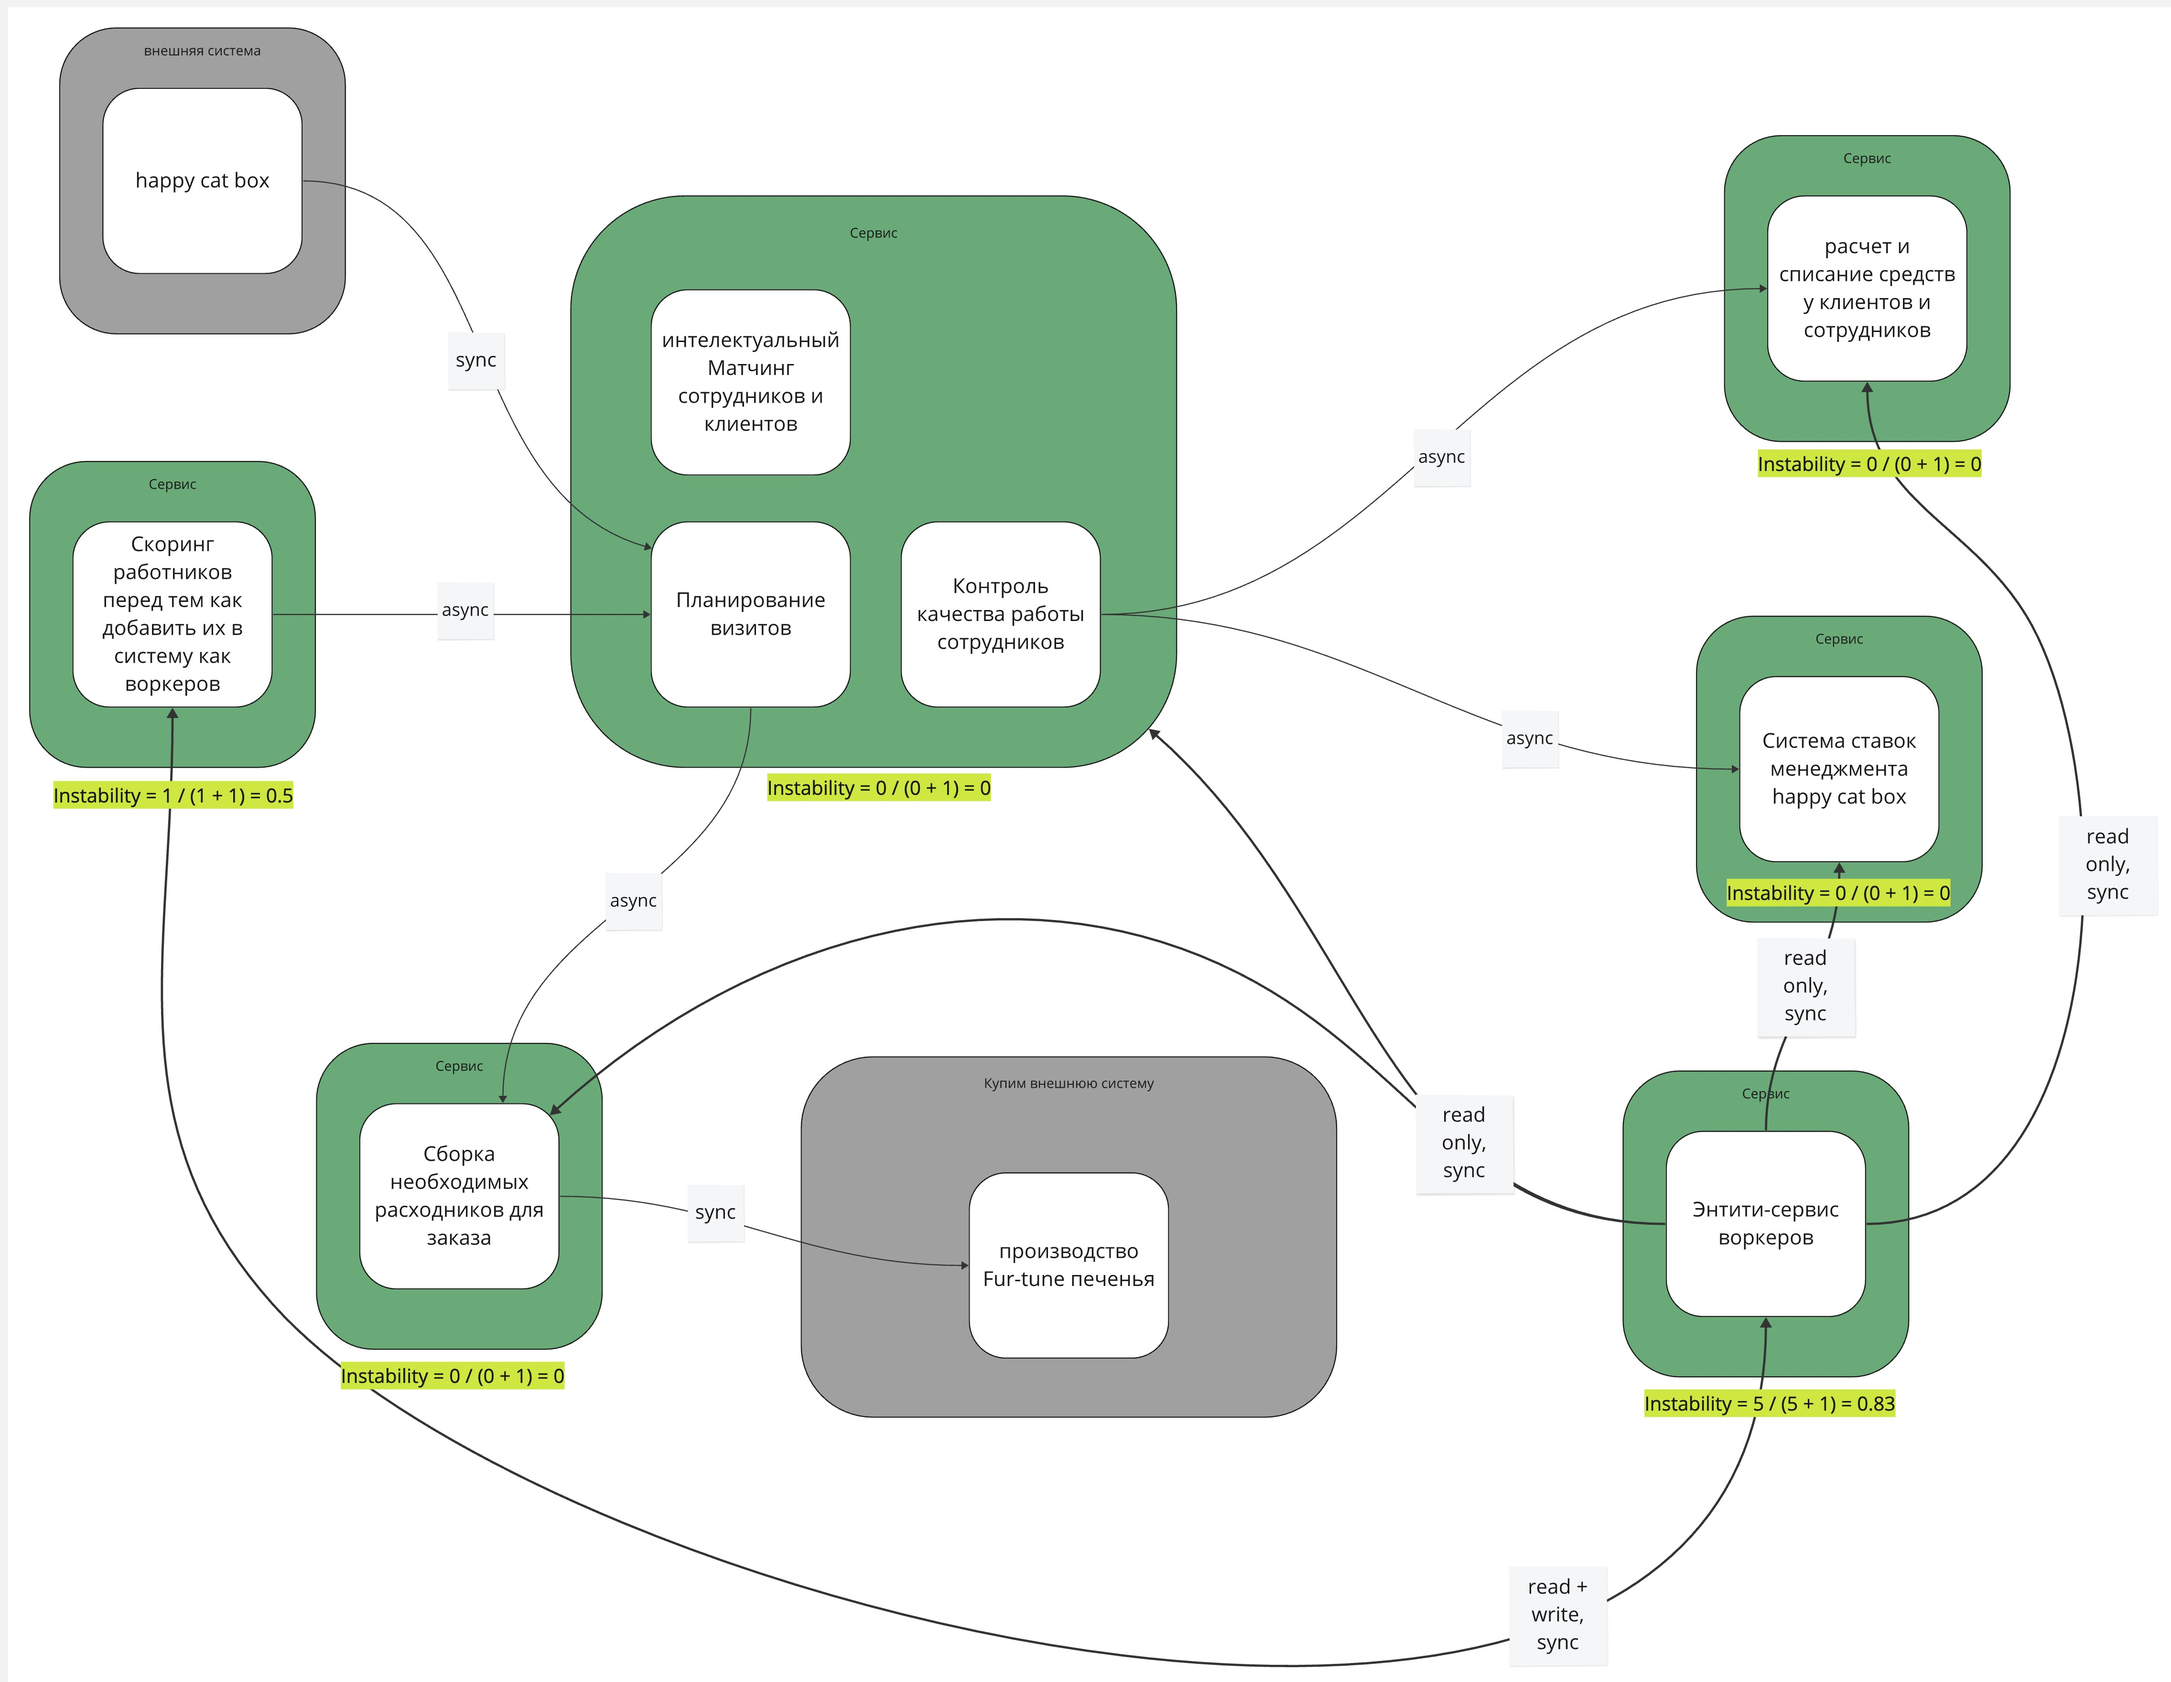
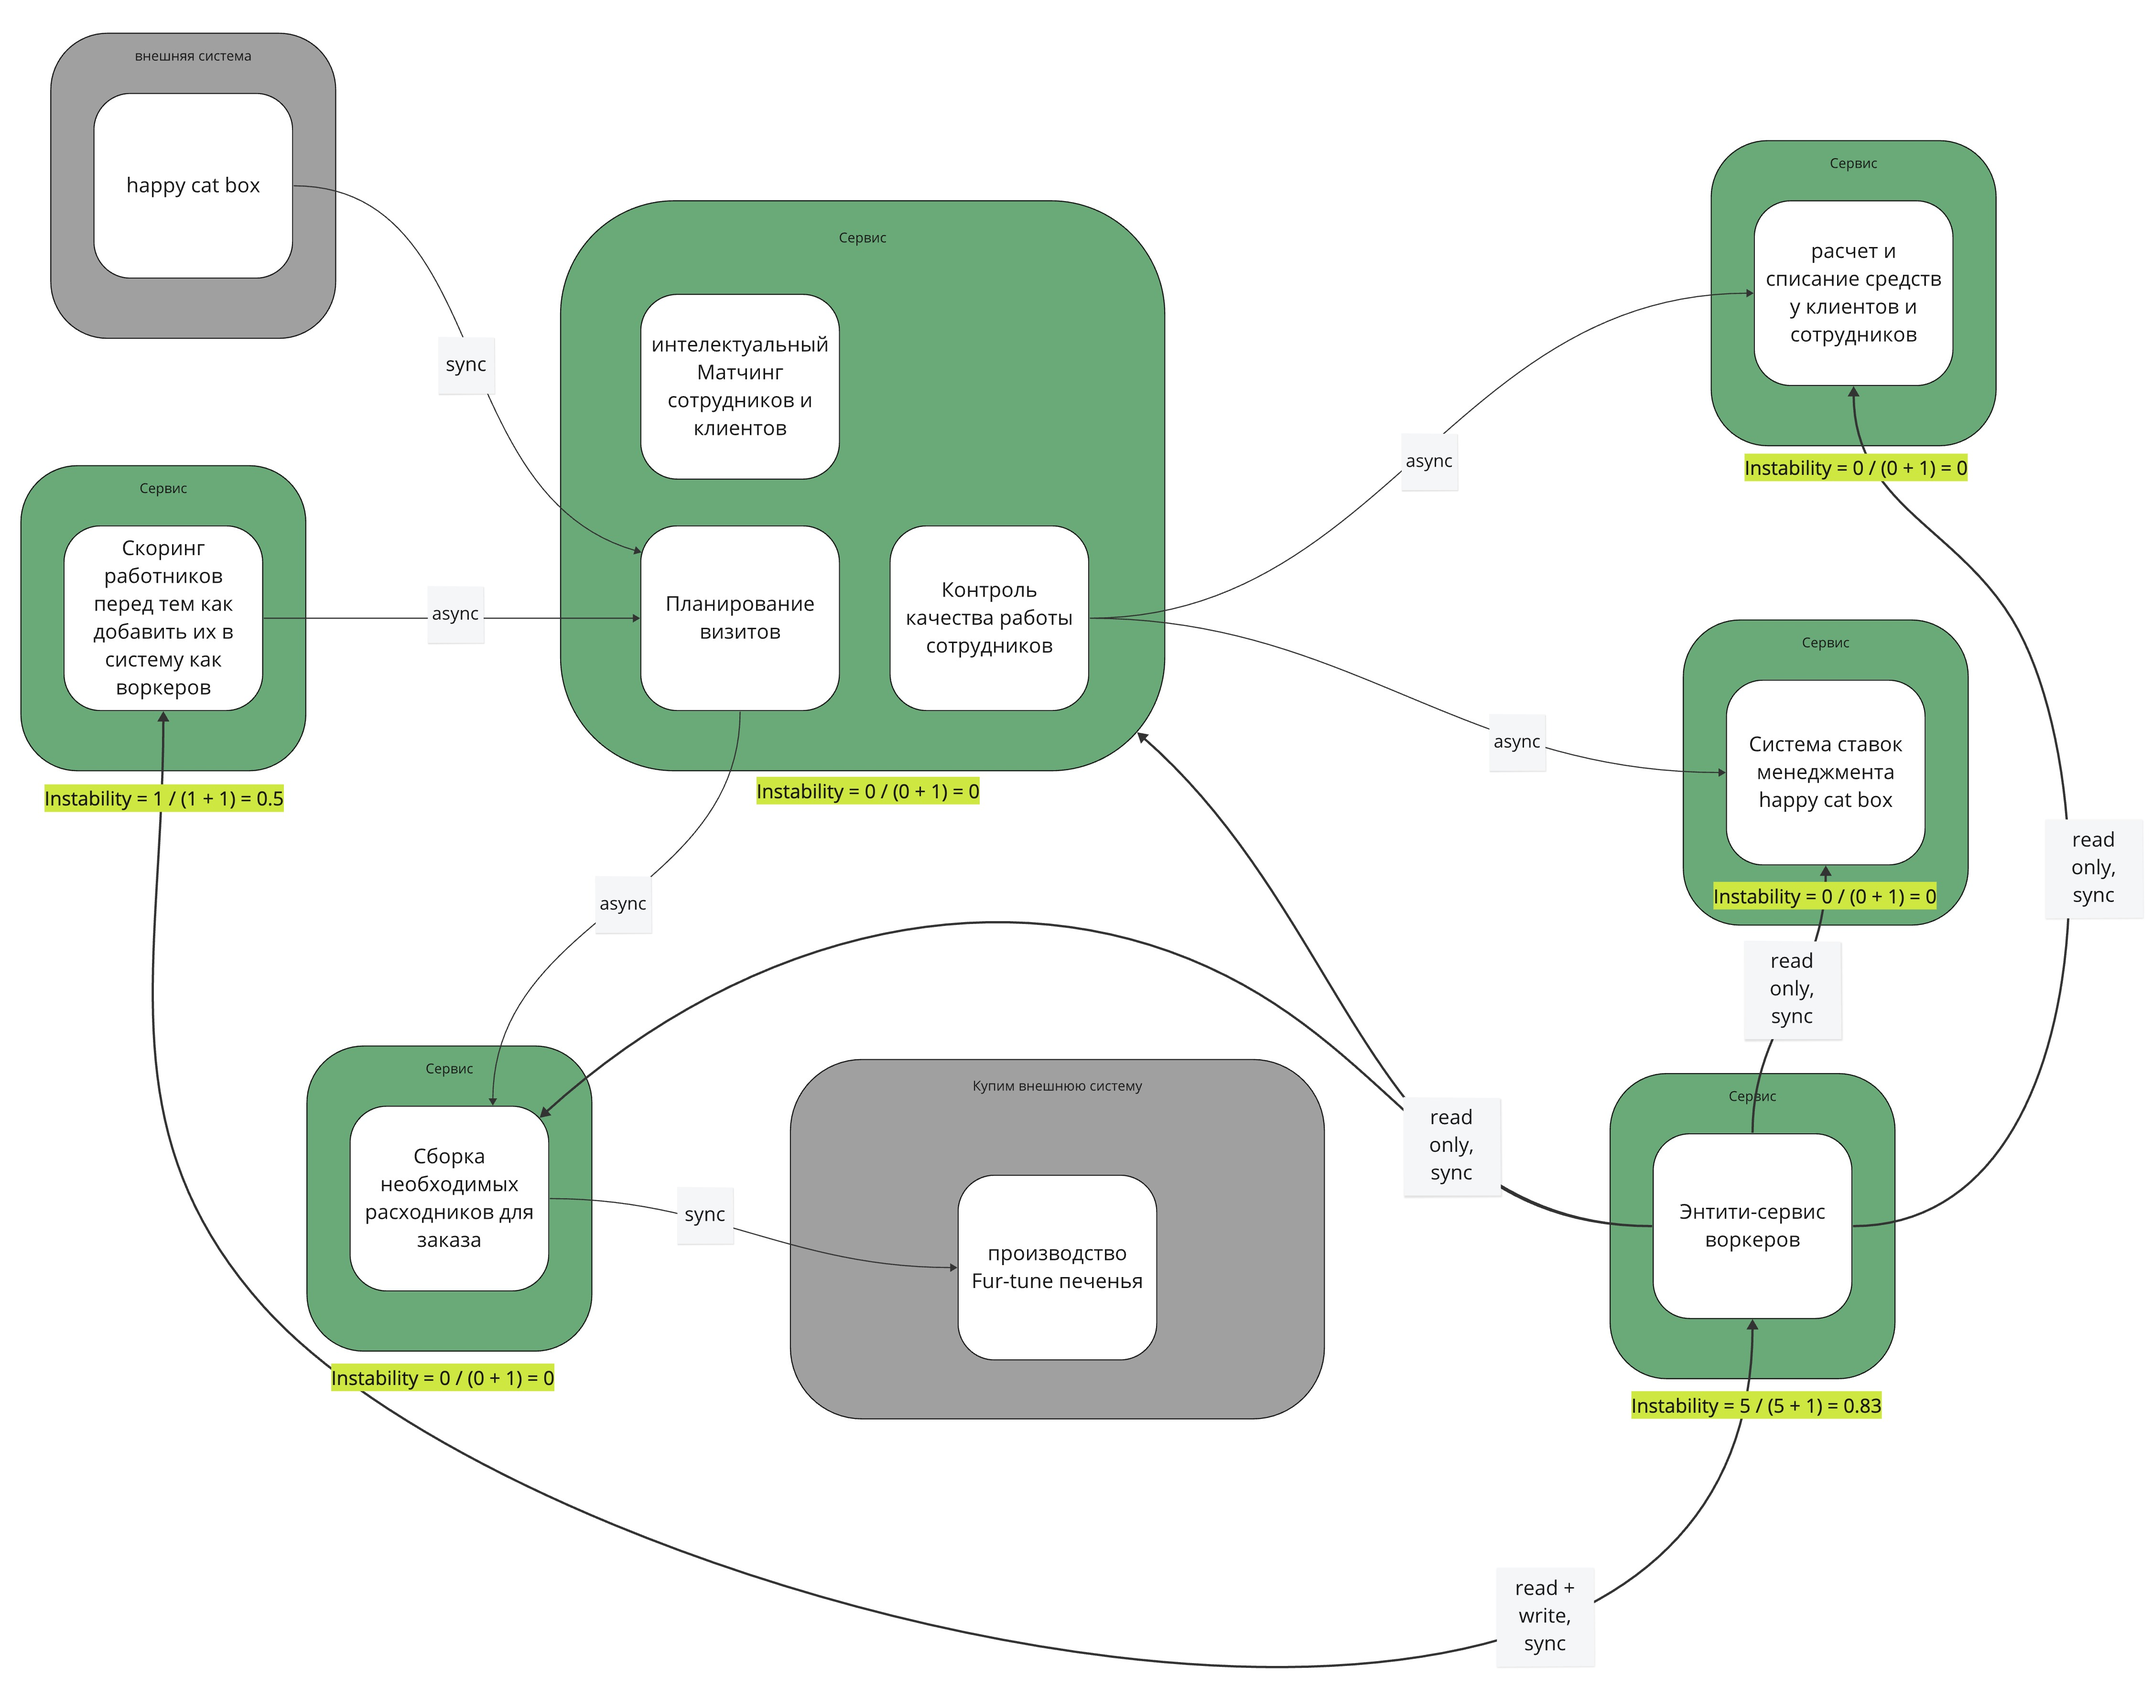
HW-4: Final touches

diff --git a/homework-4/README.md b/homework-4/README.md
@@ -11,39 +11,38 @@
 **Цель задания** — необходимо исправить систему, которую сделали до нас.
 
 В качестве **исходной системы** взяла систему из задания, т.к. мои системы из нулевой и первой ДЗ «не бьются»
-с целевой из-за нейминга и критериев разбиения на контексты — слишком сложно проецировать одно в другое).
-
-В качестве **целевой** — система из третьей ДЗ, скорректированная после разбора
-(дополнительно для уменьшения когнитивной нагрузки перекрасила блоки и подогнала позиционирование сервисов под источник).
-
-| Source                                                                                            | Target                                                                                            |
-|---------------------------------------------------------------------------------------------------|---------------------------------------------------------------------------------------------------|
-| ![Source](https://github.com/foxy-eyed/mcf-project/blob/hw-4/homework-4/img/source_structure.jpg) | ![Target](https://github.com/foxy-eyed/mcf-project/blob/hw-4/homework-4/img/target_structure.jpg) |
+с целевой из-за нейминга и критериев разбиения на контексты — слишком сложно проецировать одно в другое.
 
 ### Проблемы, найденные в исходной системе
 
-1. Матчинг внутри монолита исполнения заказов.
-   - Объединили Core-поддомен с растущей сложностью с Generic-поддоменами исполнения услуг и 
-контролем качества => расхождение характеристик в одном монолите;
+1. Матчинг находится внутри монолита исполнения заказов.
+   - Core-поддомен с растущей сложностью оказался объединён с Generic-поддоменами исполнения услуг и
+     контролем качества => получили расхождение характеристик частей в одном монолите;
    - Под характеристики матчинга требуется специфический архитектурный стиль;
    - Команда, занимающаяся матчингом, говорит на другом языке (другой контекст);
 2. Энтити-сервис воркеров, который является источником информации о воркерах для всех сервисов.
-Любое изменение структуры данных потенциально создает риск для работы всех сервисов, которые забирают данные о воркерах.
-Высокая связанность между энтити-сервисом воркеров и его консьюмерами увеличивает глобальную сложность системы.
-Отказ сервиса сломает всю систему.
+   Любое изменение структуры данных потенциально создает риск для работы всех сервисов, которые забирают данные о воркерах.
+   Высокая связанность между энтити-сервисом воркеров и его консьюмерами увеличивает глобальную сложность системы.
+   Отказ сервиса сломает всю систему.
 3. Общий сервис биллинга для воркеров и клиентов.
    - Различающиеся архитектурные характеристики (разная частота деплоев);
    - Нарушаем CatFinCompliance из-за общей базы;
-   - Разные контексты.
+   - Разные контексты объединили в один сервис.
 
 ## Предложения по исправлению ситуации
 
 ![Transformation](https://github.com/foxy-eyed/mcf-project/blob/hw-4/homework-4/img/transformation.jpg)
 
 1. Выносим матчинг в отдельный сервис.
-2. Энтити-сервис воркеров объединяем с сервисом Скоринга, который будет асинхронно стримить данные о воркерах в 
-сервис Матчинга и сервис Исполнения заказов.
+2. Энтити-сервис воркеров объединяем с сервисом Скоринга, который будет асинхронно стримить данные о воркерах в
+   сервис Матчинга и сервис Исполнения заказов.
 3. Разделяем общий сервис расчётов с воркерами и клиентами на два.
+
+### Сравнение структур исходной и целевой системы
+
+| Source                                                                                            | Target                                                                                            |
+|---------------------------------------------------------------------------------------------------|---------------------------------------------------------------------------------------------------|
+| ![Source](https://github.com/foxy-eyed/mcf-project/blob/hw-4/homework-4/img/source_structure.jpg) | ![Target](https://github.com/foxy-eyed/mcf-project/blob/hw-4/homework-4/img/target_structure.jpg) |
 
 ## Расчёт Instability
 
